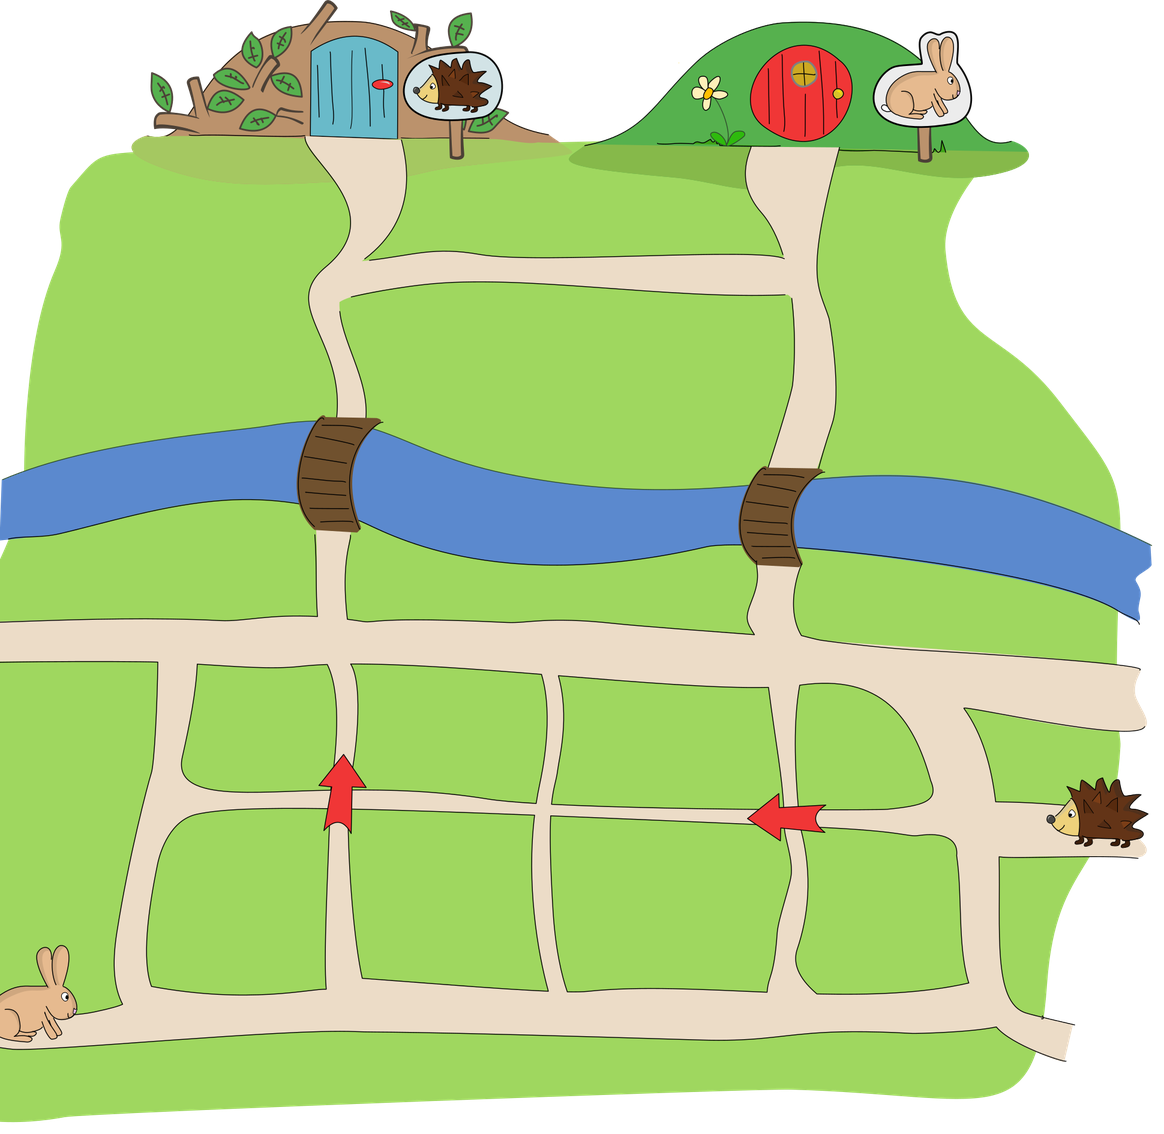
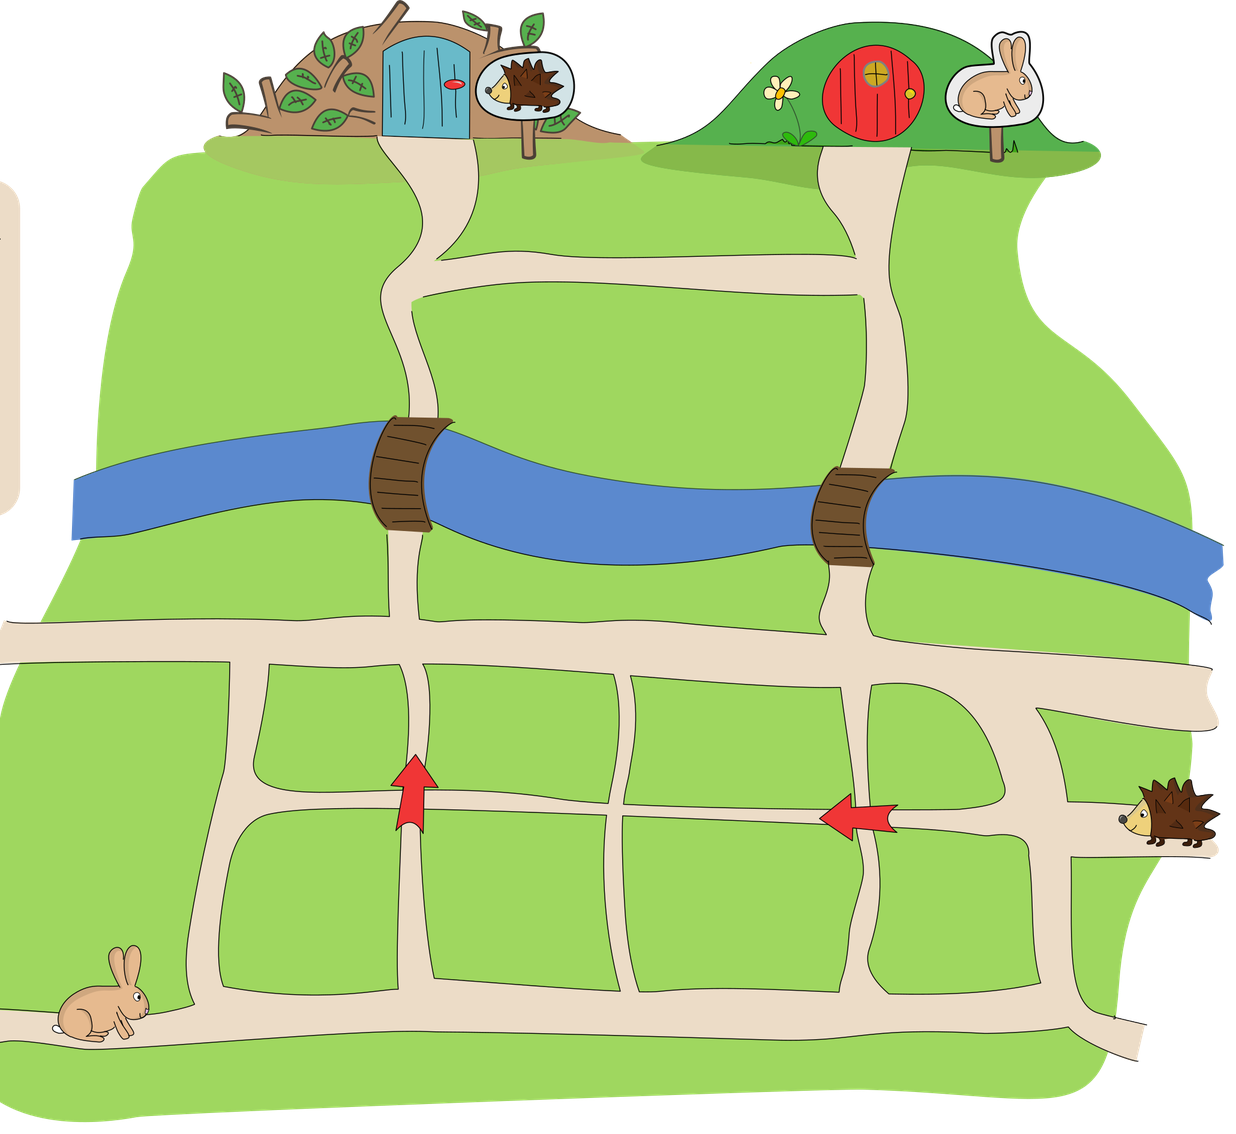
Zwischenstand: Bebrasien und Biberholz
Claude-Session: https://claude.ai/code/session_016UFBVCKSSnvMEPiKL81TVz

diff --git a/tasks/biberholz.js b/tasks/biberholz.js
@@ -13,11 +13,11 @@
     baum3: '<path d="M16 29v-9M10 22c-5-1-6-7-2-9-1-5 4-8 8-5 4-3 9 0 8 5 4 2 3 8-2 9" fill="none" stroke="currentColor" stroke-width="1.6" stroke-linecap="round" stroke-linejoin="round"/>',
     frucht: '<path d="M16 9c-2-3-1-5 1-6" stroke="var(--ink)" stroke-width="1.6" fill="none" stroke-linecap="round"/><path d="M16 9c-5-2-11 1-11 8 0 7 5 11 11 11s11-4 11-11c0-7-6-10-11-8z" fill="var(--c1)" stroke="var(--ink)" stroke-width="1.4" stroke-linejoin="round"/>',
     frucht2: '<circle cx="12" cy="20" r="6" fill="none" stroke="currentColor" stroke-width="1.6"/><circle cx="21" cy="14" r="5" fill="none" stroke="currentColor" stroke-width="1.6"/><path d="M12 14l3-6 6 2" fill="none" stroke="currentColor" stroke-width="1.4"/>',
-    zapfen: '<g transform="rotate(-30 16 16)"><ellipse cx="16" cy="16" rx="8" ry="12" fill="color-mix(in srgb, var(--c2) 45%, var(--ink))" stroke="var(--ink)" stroke-width="1.4"/><path d="M9 10l14 12M9 16l14 0M10 22l12-12M13 5l6 22M19 5l-6 22" stroke="var(--ink)" stroke-width="1" opacity="0.7" fill="none"/></g>',
+    zapfen: '<g transform="rotate(-30 16 16)"><ellipse cx="16" cy="16" rx="8" ry="12" fill="var(--c2)" stroke="var(--ink)" stroke-width="1.4"/><path d="M9 10l14 12M9 16l14 0M10 22l12-12M13 5l6 22M19 5l-6 22" stroke="var(--ink)" stroke-width="1" opacity="0.7" fill="none"/></g>',
     farbe: '<path d="M16 4C8 4 3 9 3 16c0 8 7 12 12 12 3 0 3-3 2-5-1-3 1-5 4-5h5c3 0 4-2 4-4 0-6-6-10-14-10z" fill="var(--surface)" stroke="var(--ink)" stroke-width="1.5" stroke-linejoin="round"/><circle cx="11" cy="11" r="2.4" fill="var(--c1)"/><circle cx="18" cy="9" r="2.4" fill="var(--c2)"/><circle cx="8" cy="18" r="2.4" fill="var(--c4)"/><circle cx="23" cy="13" r="2.4" fill="var(--c6)"/>',
     punkte: '<circle cx="12" cy="16" r="6" fill="none" stroke="currentColor" stroke-width="1.6"/><circle cx="19" cy="16" r="6" fill="currentColor" opacity="0.7"/>',
     punkt: '<circle cx="16" cy="16" r="6.5" fill="currentColor" opacity="0.7"/>',
-    burg: '<path d="M3 27C3 14 9 7 16 7s13 7 13 20z" fill="color-mix(in srgb, var(--c2) 45%, var(--ink))" stroke="var(--ink)" stroke-width="1.4" stroke-linejoin="round"/><path d="M5 20h22M7 14h18M12 7l-4 13M20 7l4 13M16 7v20M11 27a5 5 0 0 1 10 0z" stroke="var(--ink)" stroke-width="1" fill="none" opacity="0.7"/><path d="M12 27a4 4 0 0 1 8 0z" fill="var(--ink)"/>',
+    burg: '<path d="M3 27C3 14 9 7 16 7s13 7 13 20z" fill="var(--c2)" stroke="var(--ink)" stroke-width="1.4" stroke-linejoin="round"/><path d="M5 20h22M7 14h18M12 7l-4 13M20 7l4 13M16 7v20M11 27a5 5 0 0 1 10 0z" stroke="var(--ink)" stroke-width="1" fill="none" opacity="0.7"/><path d="M12 27a4 4 0 0 1 8 0z" fill="var(--ink)"/>',
     haken: '<path d="M7 17l6 7L26 7" fill="none" stroke="currentColor" stroke-width="2.4" stroke-linecap="round" stroke-linejoin="round"/>',
     kreuz: '<path d="M8 8l16 16M24 8L8 24" fill="none" stroke="currentColor" stroke-width="2.4" stroke-linecap="round"/>'
   };

diff --git a/tasks/flugzeuge.css b/tasks/flugzeuge.css
@@ -12,12 +12,12 @@
 .fl-table thead th { background: var(--slot); font-size: 0.85rem; text-transform: uppercase; letter-spacing: 0.06em; text-align: left; padding: 0.4rem 0.6rem; }
 .fl-table thead th:first-child { width: 5.2rem; }
 .fl-table tbody th { text-align: left; font-weight: 700; font-size: 1.15rem; padding-left: 0.7rem; border-right: 2px solid var(--slot-line); }
-.fl-slot { display: grid; place-items: center; width: 100%; height: 4.2rem; position: relative; }
+.fl-slot { display: grid; place-items: center; width: 100%; height: 4.8rem; position: relative; }
 button.fl-slot {
   appearance: none; border: 3px dashed var(--slot-line); background: var(--slot); border-radius: 9px; padding: 2px; cursor: pointer; touch-action: manipulation;
 }
 .fl-slot.fixed { padding: 3px; background: var(--paper); border: 3px solid transparent; border-radius: 9px; }
-.fl-slot img { width: 100%; height: 100%; object-fit: contain; pointer-events: none; user-select: none; -webkit-user-drag: none; }
+.fl-slot img { position: absolute; inset: 4px; width: calc(100% - 8px); height: calc(100% - 8px); object-fit: contain; pointer-events: none; user-select: none; -webkit-user-drag: none; }
 .fl-ghost {
   display: block; width: 70%; height: 80%;
   background: var(--muted); opacity: 0.45;
@@ -37,9 +37,9 @@ button.fl-slot:disabled { cursor: default; }
 .fl-cell { height: 4.6rem; border-radius: 9px; background: var(--surface2); }
 .fl-chip {
   appearance: none; height: 4.6rem; width: 100%; padding: 4px; border: 3px solid transparent; border-radius: 9px;
-  background: var(--paper); box-shadow: 0 1px 4px rgb(0 0 0 / 0.25); cursor: grab; touch-action: manipulation; display: grid; place-items: center;
+  background: var(--paper); box-shadow: 0 1px 4px rgb(0 0 0 / 0.25); cursor: grab; touch-action: manipulation; display: block; position: relative;
 }
-.fl-chip img { width: 100%; height: 100%; object-fit: contain; pointer-events: none; user-select: none; -webkit-user-drag: none; }
+.fl-chip img { position: absolute; inset: 4px; width: calc(100% - 8px); height: calc(100% - 8px); object-fit: contain; pointer-events: none; user-select: none; -webkit-user-drag: none; }
 .fl-chip.selected { border-color: var(--accent); box-shadow: 0 0 0 3px color-mix(in srgb, var(--accent) 30%, transparent); }
 .fl-chip.dragging { opacity: 0.4; }
 .fl-chip:disabled { cursor: default; }

diff --git a/tasks/zahlenmaschine.js b/tasks/zahlenmaschine.js
@@ -174,10 +174,10 @@
   }
 
   function build() {
+    var svg = buildMachine();
     nodes.live = h('p', { class: 'zm-live', 'aria-live': 'polite' });
     nodes.liveText = h('span', { class: 'zm-live-vis' });
     nodes.options = h('div', { class: 'zm-options', role: 'radiogroup', 'aria-label': 'Welche Aufgabe führt die Maschine aus?' });
-    var svg = buildMachine();
     var tools = h('div', { class: 'zm-tools' },
       h('button', { type: 'button', class: 'btn ghost zm-btn', onclick: function () {
         vals = [1, 2, 3, 4].map(function () { return 1 + Math.floor(Math.random() * 9); });
@@ -207,10 +207,10 @@
       '<path class="zm-wire small" d="M56,42 L38,20"/><path class="zm-wire small head" d="M37,28 L38,19 L46,22"/>' +
       '<path class="zm-wire big" d="M94,42 L112,20"/><path class="zm-wire big head" d="M104,19 L112,19 L111,27"/>' +
       '<g class="zm-switch"><rect x="43" y="42" width="64" height="30" rx="15"/><path d="M80,49 L70,57 L80,65"/></g>' +
-      '<g class="zm-in"><circle cx="28" cy="108" r="14"/><text x="28" y="110">3</text></g>' +
-      '<g class="zm-in"><circle cx="122" cy="108" r="14"/><text x="122" y="110">2</text></g>' +
-      '<g class="zm-out"><circle cx="30" cy="12" r="11"/><text x="30" y="13" class="s">2</text></g>' +
-      '<g class="zm-out"><circle cx="120" cy="12" r="11"/><text x="120" y="13" class="s">3</text></g>' +
+      '<g class="zm-sin"><circle cx="28" cy="108" r="14"/><text x="28" y="110">3</text></g>' +
+      '<g class="zm-sin"><circle cx="122" cy="108" r="14"/><text x="122" y="110">2</text></g>' +
+      '<g class="zm-sout"><circle cx="30" cy="12" r="11"/><text x="30" y="13" class="s">2</text></g>' +
+      '<g class="zm-sout"><circle cx="120" cy="12" r="11"/><text x="120" y="13" class="s">3</text></g>' +
       '</svg></span></p>',
     question: 'Welche Aufgabe führt die Maschine aus?',
     howto: 'Probiere die Maschine aus: Tippe unten auf ein Eingabefeld, um die Zahl zu ändern (oder nutze „Zufällige Zahlen“). Wähle dann die richtige Antwort.',

diff --git a/tasks/nachhause.js b/tasks/nachhause.js
@@ -6,7 +6,7 @@
   /* ---------- Wegenetz ----------
      Kreuzungen als "spalte,reihe": Spalten 0..4 (links nach rechts), Reihen 1..3 (von oben, die drei
      Querstraßen unter dem Fluss); Reihe 0 sind die beiden Kreuzungen oben vor den Brücken (A=1,0 und B=3,0). */
-  var XY = { // Mittelpunkte in der Karte (Koordinaten des SVG, 970 x 945)
+  var XY = { // Mittelpunkte in der Karte (Koordinaten des SVG, 1030 x 945, Ursprung 60 px links vom Kartenbild)
     '0,1': [140, 540], '1,1': [283, 535], '2,1': [455, 550], '3,1': [648, 558], '4,1': [810, 575],
     '0,2': [140, 668], '1,2': [285, 665], '2,2': [455, 675], '3,2': [655, 682], '4,2': [820, 692],
     '0,3': [115, 832], '1,3': [278, 832], '2,3': [462, 838], '3,3': [645, 838], '4,3': [840, 850],
@@ -135,8 +135,8 @@
       return btn;
     });
 
-    var s = svg('svg', { viewBox: '0 0 970 945', class: 'nh-map', role: 'group', 'aria-label': 'Karte mit Wegen, Fluss, Hasenhaus und Igelhaus' });
-    s.appendChild(svg('image', { href: 'assets/nachhause/karte.png', x: 0, y: 0, width: 970, height: 945, 'aria-hidden': 'true' }));
+    var s = svg('svg', { viewBox: '-60 0 1030 945', class: 'nh-map', role: 'group', 'aria-label': 'Karte mit Wegen, Fluss, Hasenhaus und Igelhaus' });
+    s.appendChild(svg('image', { href: 'assets/nachhause/karte.png', x: -60, y: 0, width: 1030, height: 945, 'aria-hidden': 'true' }));
 
     // Wege von Hase und Igel
     if (result) {

diff --git a/tasks/zahlenmaschine.css b/tasks/zahlenmaschine.css
@@ -18,15 +18,15 @@
 .zm-wire.big.head { stroke-width: 4; }
 .zm-switch rect { fill: var(--surface); stroke: var(--c2); stroke-width: 3.5; }
 .zm-switch path { fill: none; stroke: var(--ink); stroke-width: 3; stroke-linecap: round; stroke-linejoin: round; }
-.zm-in circle, .zm-out circle { fill: var(--surface); stroke-width: 2; }
-.zm-in .zm-ring, .zm-etwa .zm-in circle { stroke: var(--ok); stroke-dasharray: 4 3; }
-.zm-out circle { stroke: var(--ink); }
-.zm-in text, .zm-out text, .zm-badge text {
+.zm-in circle, .zm-out circle, .zm-sin circle, .zm-sout circle { fill: var(--surface); stroke-width: 2; }
+.zm-in .zm-ring, .zm-sin circle { stroke: var(--ok); stroke-dasharray: 4 3; }
+.zm-out circle, .zm-sout circle { stroke: var(--ink); }
+.zm-in text, .zm-out text, .zm-sin text, .zm-sout text, .zm-badge text {
   font-family: var(--font-display); font-weight: 700; font-size: 22px; text-anchor: middle; dominant-baseline: central; fill: var(--ink); pointer-events: none;
 }
-.zm-in text { fill: var(--ok); }
-.zm-etwa .zm-in text { font-size: 18px; }
-.zm-out text.s { font-size: 14px; }
+.zm-in text, .zm-sin text { fill: var(--ok); }
+.zm-sin text { font-size: 18px; }
+.zm-sout text { font-size: 14px; }
 .zm-badge circle { fill: var(--surface2); stroke: var(--line); stroke-width: 1.5; }
 .zm-badge text { font-size: 13px; }
 .zm-in { cursor: pointer; }

diff --git a/tasks/bebrasien.css b/tasks/bebrasien.css
@@ -11,10 +11,10 @@
 .bb-isl { cursor: pointer; outline: none; }
 .bb-sand { fill: color-mix(in srgb, var(--c2) 38%, var(--surface)); stroke: transparent; stroke-width: 5; }
 .bb-grass { fill: color-mix(in srgb, var(--c6) 78%, var(--surface)); }
-.bb-trunk { fill: none; stroke: color-mix(in srgb, var(--c2) 45%, var(--ink)); stroke-width: 4; stroke-linecap: round; }
+.bb-trunk { fill: none; stroke: var(--c2); stroke-width: 4; stroke-linecap: round; }
 .bb-leaf { fill: var(--c6); }
 .bb-tag { fill: var(--surface); stroke: var(--ink); stroke-width: 1.5; }
-.bb-tagt { fill: var(--ink); font: 700 13px var(--font-body); }
+.bb-tagt { fill: var(--ink); font: 700 20px var(--font-body); }
 .bb-isl:hover .bb-sand { stroke: color-mix(in srgb, var(--accent) 50%, transparent); }
 .bb-isl:focus-visible .bb-sand { stroke: var(--focus); }
 .bb-isl.visited .bb-sand { stroke: var(--accent); }

diff --git a/tasks/bebrasien.js b/tasks/bebrasien.js
@@ -94,8 +94,8 @@
           svg('ellipse', { cx: I.x, cy: I.y, rx: I.rx * 0.74, ry: I.ry * 0.7, class: 'bb-grass' })),
         palm(I.x - I.rx * 0.12, I.y + 8, I.rx > 50 ? 1.1 : 0.9),
         palm(I.x + I.rx * 0.28, I.y + 14, 0.65),
-        svg('circle', { cx: I.x - I.rx * 0.6, cy: I.y - I.ry * 0.5, r: 11, class: 'bb-tag' }),
-        svg('text', { x: I.x - I.rx * 0.6, y: I.y - I.ry * 0.5 + 4.5, class: 'bb-tagt', 'text-anchor': 'middle', 'aria-hidden': 'true' }, id));
+        svg('circle', { cx: I.x - I.rx * 0.55, cy: I.y - I.ry * 0.5, r: 16, class: 'bb-tag' }),
+        svg('text', { x: I.x - I.rx * 0.55, y: I.y - I.ry * 0.5 + 7, class: 'bb-tagt', 'text-anchor': 'middle', 'aria-hidden': 'true' }, id));
     });
     var heli = svg('g', { class: 'bb-heli', 'aria-hidden': 'true' },
       svg('line', { x1: -16, y1: -13, x2: 16, y2: -13, class: 'bb-rotor' }),
